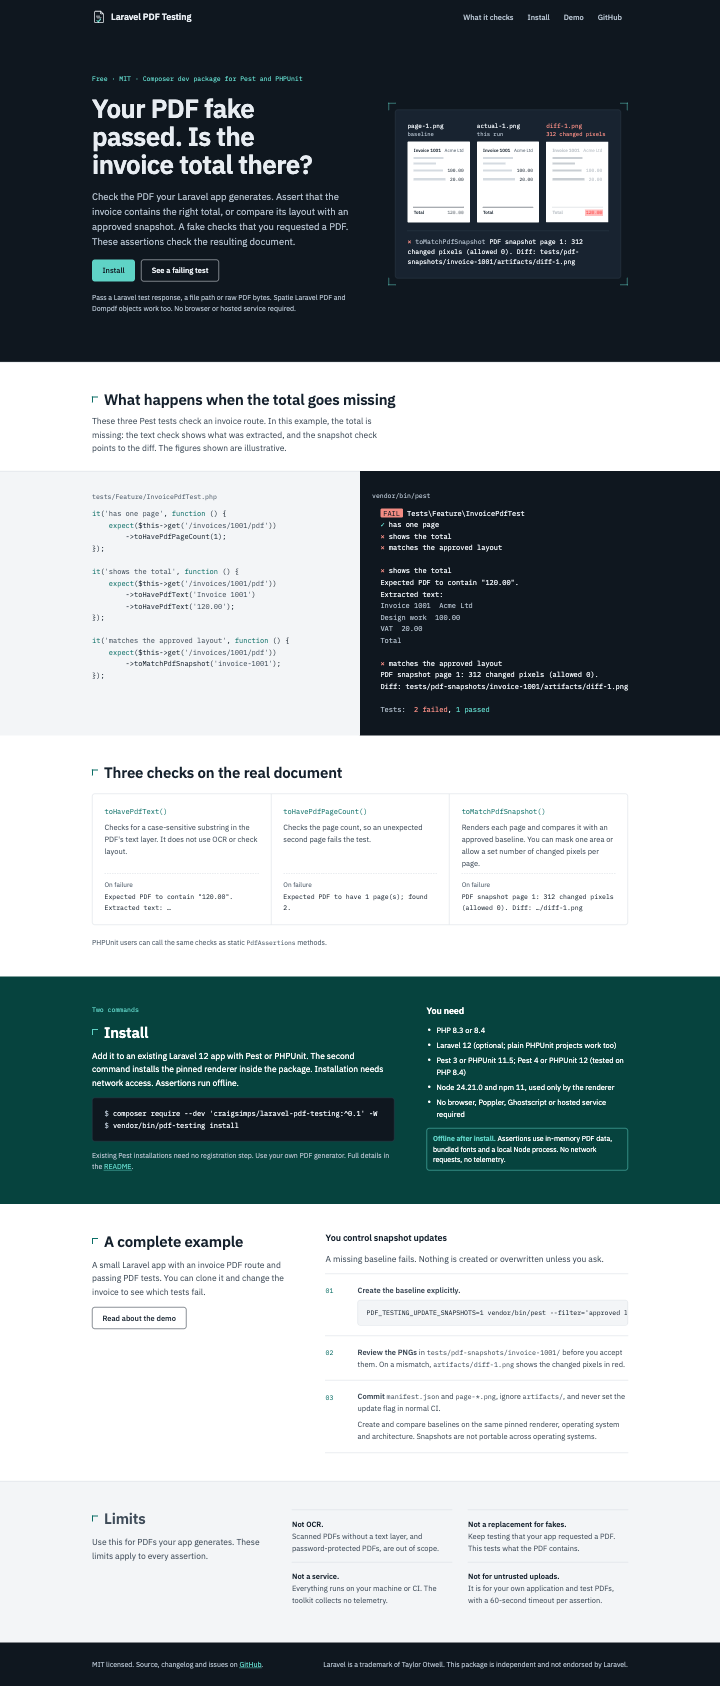
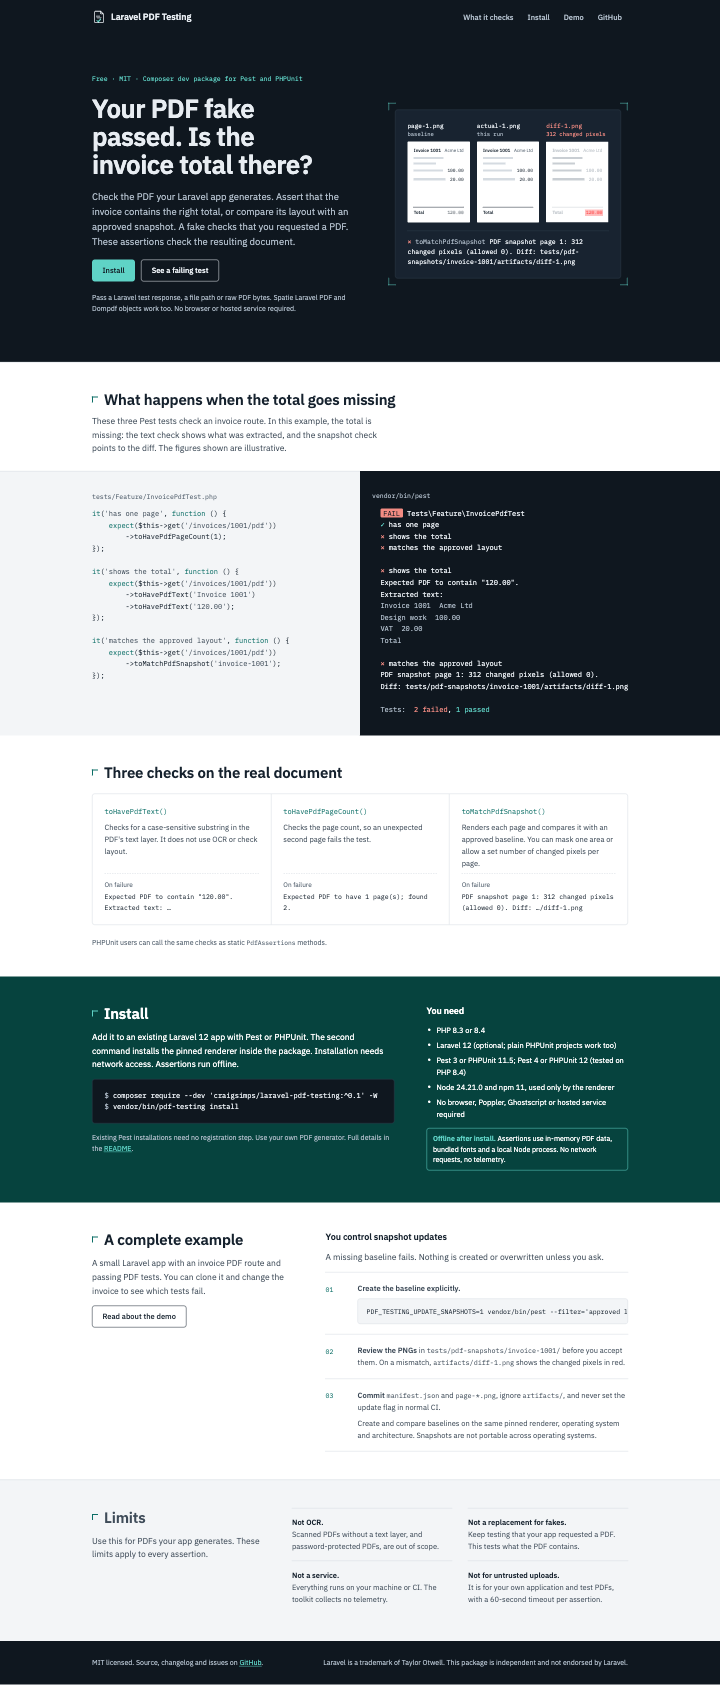
Remove the install section eyebrow
Drops the 'Two commands' eyebrow above the Install heading and its unused
style rule. The heading now sits 56px below the section top, the same as
every other section heading, level with 'You need' on desktop. Checked at
1440 and 390px in light and dark; renders in docs/launch/previews/install/.
Previews regenerated.

diff --git a/site/src/styles/site.css b/site/src/styles/site.css
@@ -249,7 +249,6 @@ pre code { font-size: inherit; }
 .install .muted { color: var(--ground-text-2); }
 .install a:not(.button) { color: var(--ground-teal); }
 .install ul { padding-left: 1.25rem; display: flex; flex-direction: column; gap: 0.375rem; font-size: 0.9375rem; }
-.install .eyebrow { color: var(--ground-teal); }
 .install .note { border: 1px solid var(--ground-teal); color: #FFFFFF; background: transparent; }
 .install .note strong { color: var(--ground-teal); }
 
